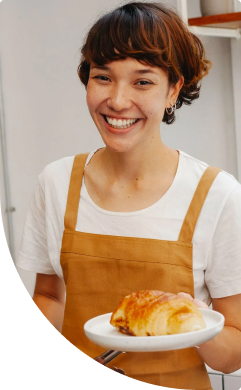
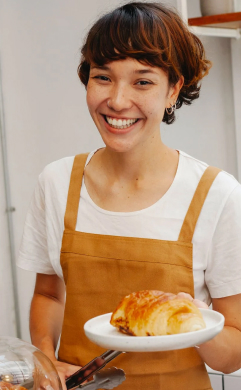
Implementation of CSS Grid layout.

Changed region(s): [[0.0, 0.5231, 0.8133, 1.0], [0.9876, 0.9846, 1.0, 1.0], [0.9876, 0.0, 1.0, 0.0308]]

diff --git a/css/styles.css b/css/styles.css
@@ -2,9 +2,11 @@
 
 :root {
   --color-brand-dark: #465929;
-  --color-brand-light: #819b57;
+  --color-brand-normal: #819b57;
+  --color-brand-light: #cdcdbc;
   --color-primary-dark: #31261a;
   --color-primary-light: #faf4ea;
+  --color-secondary-dark: #a28268;
 }
 
 * {
@@ -14,6 +16,7 @@
 
 body {
   color: var(--color-primary-dark);
+  background-color: var(--color-primary-light);
   font-family: Poppins, sans-serif;
   font-size: 18px;
   font-weight: 400;
@@ -41,8 +44,8 @@ address {
 .header__call-order-button {
   padding: 16px 32px;
   color: var(--color-primary-light);
-  background-color: var(--color-brand-light);
-  border: 2px solid var(--color-brand-light);
+  background-color: var(--color-brand-normal);
+  border: 2px solid var(--color-brand-normal);
   border-radius: 8px;
   cursor: pointer;
   font-weight: 600;
@@ -59,7 +62,7 @@ address {
 }
 
 .nav__link:hover {
-  color: var(--color-brand-light);
+  color: var(--color-brand-normal);
   text-decoration: underline;
 }
 
@@ -92,6 +95,10 @@ address {
 
 .hero {
   padding: 272px 0;
+  background-image: url('../img/hero-section-background.jpg');
+  background-repeat: no-repeat;
+  background-position: center top;
+  background-size: cover;
 }
 
 .hero__title {
@@ -103,12 +110,12 @@ address {
 }
 
 .hero__title .accent {
-  color: var(--color-brand-light);
+  color: var(--color-brand-normal);
 }
 
 .avantages {
   padding: 16px 0;
-  background-color: var(--color-brand-light);
+  background-color: var(--color-brand-normal);
 }
 
 .avantages__hidden {
@@ -161,7 +168,7 @@ address {
 }
 
 .traditions__paragraph .accent {
-  color: var(--color-brand-light);
+  color: var(--color-brand-normal);
 }
 
 .traditions__paragraph .brand {
@@ -175,17 +182,40 @@ address {
 
 .chef__title,
 .format__title {
-  margin-bottom: 80px;
+  text-align: center;
+}
+
+.chef__title {
+  max-width: 520px;
+  margin: 0 auto 80px;
+}
+
+.chef__title::before,
+.chef__title::after {
+  display: block;
+  width: 352px;
+  border: 2px solid var(--color-brand-light);
+  content: '';
 }
 
 .chef__title .accent {
   color: var(--color-brand-dark);
 }
 
+.chef__image {
+  border-radius: 4px 4px 4px 200px;
+  box-shadow: -16px 16px 0 0 var(--color-primary-light),
+    -16px 16px 0 2px var(--color-secondary-dark);
+}
+
 .chef__name {
   margin-bottom: 16px;
   font-size: 40px;
   font-weight: 600;
+}
+
+.format__title {
+  margin-bottom: 80px;
 }
 
 .format__list {
@@ -195,8 +225,15 @@ address {
 }
 
 .format__card {
-  border-radius: 16px;
+  height: 444px;
   padding: 24px;
+  background-image: linear-gradient(
+    180deg,
+    rgba(49, 38, 26, 0) 55.21%,
+    rgba(49, 38, 26, 0.71) 72.92%,
+    var(--color-primary-dark) 100%
+  );
+  border-radius: 16px;
 }
 
 .format__item {
@@ -222,6 +259,14 @@ address {
   max-width: 603%;
 }
 
+.footer {
+  background-image: url('../img/footer-background.png');
+  background-color: var(--color-primary-dark);
+  background-repeat: no-repeat;
+  background-size: cover;
+  background-position: center;
+}
+
 .footer__contact-item,
 .footer__contact-link,
 .footer__privacy-policy-link {
@@ -232,7 +277,7 @@ address {
 }
 
 .footer__contact-item:hover {
-  color: var(--color-brand-light);
+  color: var(--color-brand-normal);
 }
 
 .footer__copyright {

diff --git a/index.html b/index.html
@@ -183,7 +183,7 @@
         </div>
       </section>
     </main>
-    <footer>
+    <footer class="footer">
       <div class="container">
         <nav class="footer__nav nav">
           <a href="/" class="nav__logo">
